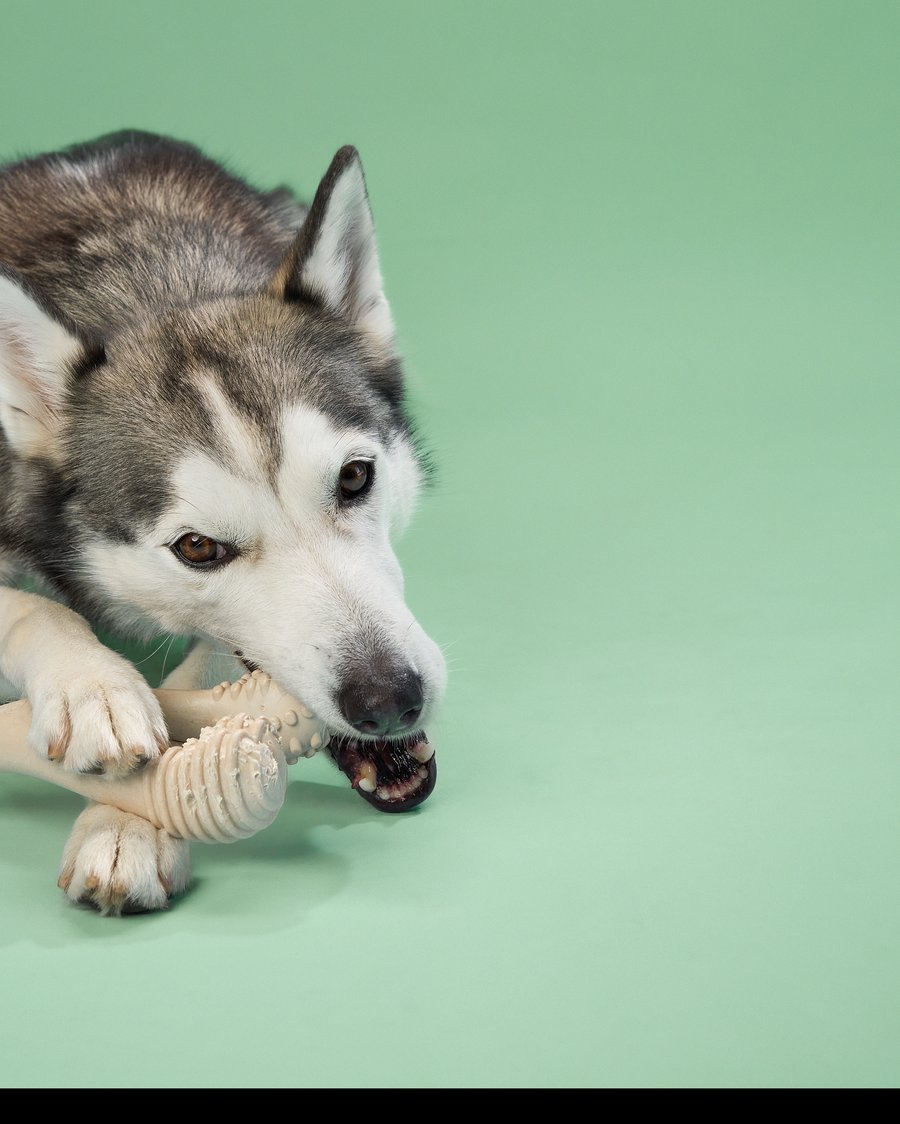
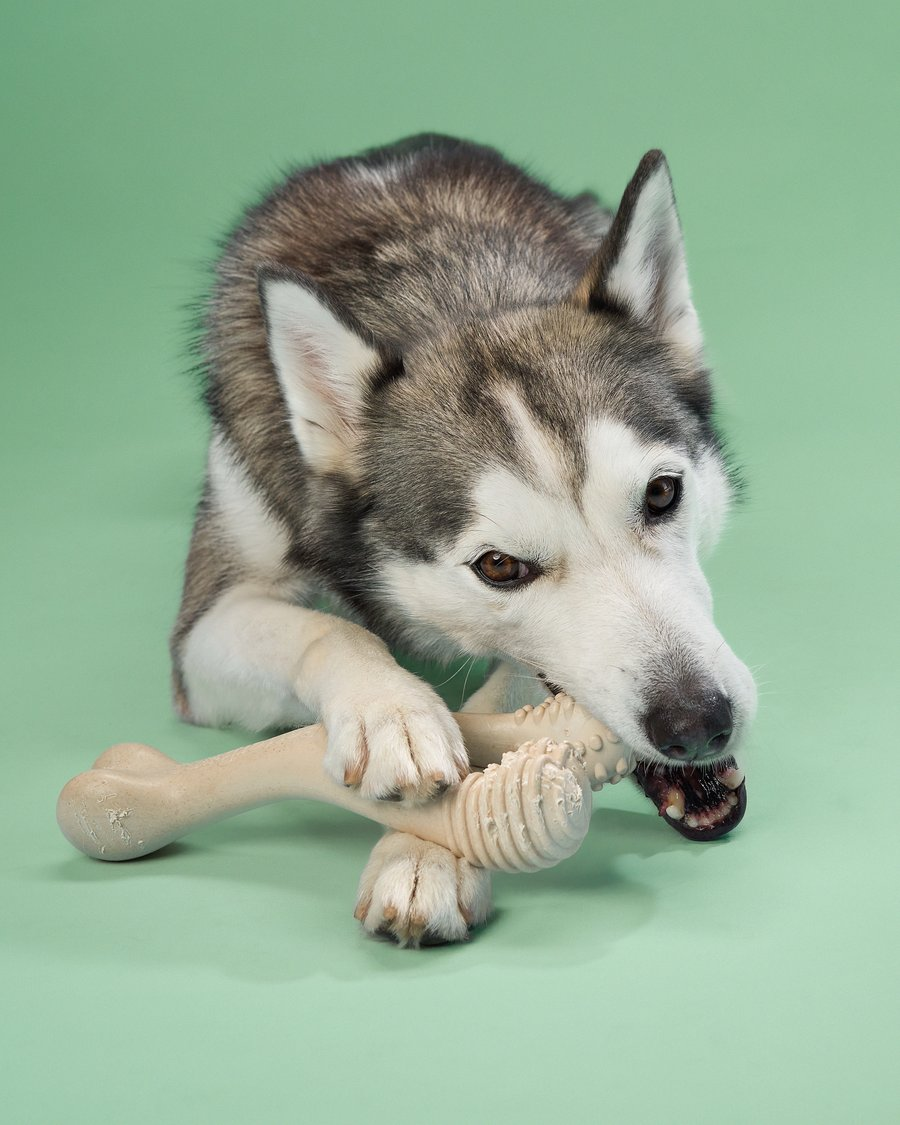
Fix BetterBone medium photo, link durability cards to shop search, add shop section divider

diff --git a/components/ShopClient.jsx b/components/ShopClient.jsx
@@ -1,6 +1,7 @@
 'use client';
 
 import React, { useEffect, useState } from 'react';
+import { useSearchParams } from 'next/navigation';
 import { shopApi } from '../lib/api';
 import { useCart } from '../lib/CartContext';
 import { BRAND_SLUGS, displayBrandName } from '../lib/brandSlugs';
@@ -21,15 +22,30 @@ function sortBrands(brands) {
 // HTML from the server. This component only re-fetches when the customer
 // actually interacts (search, brand filter), same behavior as before, just
 // no longer responsible for the very first render.
-export default function ShopClient({ initialProducts, brands, showHero = true }) {
+//
+// brandId (optional): when set (brand pages only), search/filter stays
+// scoped to this brand even after the customer types — otherwise a search
+// re-fetch drops the brand scope and pulls in matches from every brand.
+// Also reads a `?q=` URL param on mount so the durability cards further up
+// the brand page (see BrandDeepDive) can deep-link straight into a
+// pre-filtered search — e.g. clicking the "Soft" card lands here already
+// searched for "Soft".
+export default function ShopClient({ initialProducts, brands, showHero = true, brandId = null }) {
   const [products, setProducts] = useState(initialProducts);
-  const [brandFilter, setBrandFilter] = useState('');
+  const [brandFilter, setBrandFilter] = useState(brandId || '');
   const [search, setSearch] = useState('');
   const [searchInput, setSearchInput] = useState('');
   const sortedBrands = sortBrands(brands);
   const [loading, setLoading] = useState(false);
   const [firstRun, setFirstRun] = useState(true);
   const { addItem, itemCount, subtotal } = useCart();
+  const searchParams = useSearchParams();
+
+  useEffect(() => {
+    const q = searchParams.get('q');
+    if (q) { setSearchInput(q); setSearch(q); setFirstRun(false); }
+    // eslint-disable-next-line react-hooks/exhaustive-deps
+  }, []);
 
   useEffect(() => {
     if (firstRun) { setFirstRun(false); return; }

diff --git a/components/BrandDeepDive.jsx b/components/BrandDeepDive.jsx
@@ -9,10 +9,17 @@
 // Option 1 from the two combined-layout mockups shown to KT, chosen over
 // a plain stacked/no-overlap version.
 //
+// Each card is a link straight into the shop grid below, pre-searched for
+// that hardness level (e.g. clicking "Soft" scrolls to #brand-products
+// already filtered to "Soft" — see ShopClient's `q` param handling) — the
+// existing hover state on the card doubles as the click affordance, per
+// KT's request to make that hover feel "selectable".
+//
 // Image slots: every section takes either a real `image` path or falls
 // back to a dashed placeholder box showing `imageHint`, so this still
 // degrades gracefully if a future brand's data is filled in without
 // photos yet.
+import Link from 'next/link';
 
 function ImageSlot({ image, alt, hint, className }) {
   if (image) return <img src={image} alt={alt} className={className} />;
@@ -67,7 +74,12 @@ export default function BrandDeepDive({ deepDive, brandDisplayName }) {
             </div>
             <div className="durability-grid">
               {durability.levels.map(lvl => (
-                <div className="durability-card" key={lvl.label}>
+                <Link
+                  href={`?q=${encodeURIComponent(lvl.label)}#brand-products`}
+                  className="durability-card"
+                  key={lvl.label}
+                  aria-label={`Shop BetterBone ${lvl.label} chews`}
+                >
                   <div className="durability-image-wrap">
                     <ImageSlot image={lvl.image} alt={lvl.label} hint={lvl.imageHint} className="durability-image" />
                     <div className="durability-product-badge">
@@ -86,7 +98,7 @@ export default function BrandDeepDive({ deepDive, brandDisplayName }) {
                       </div>
                     )}
                   </div>
-                </div>
+                </Link>
               ))}
             </div>
           </div>

diff --git a/app/globals.css b/app/globals.css
@@ -421,7 +421,7 @@ footer.site-footer { background: var(--navy); color: var(--cream); padding-top: 
 .durability-head p { font-size: 16px; color: var(--dark-gray); line-height: 1.7; }
 .durability-grid { display: grid; grid-template-columns: repeat(3,1fr); gap: 26px; }
 @media (max-width: 760px) { .durability-grid { grid-template-columns: 1fr; } }
-.durability-card { background: var(--cream); border: 2px solid rgba(20,33,61,.08); border-radius: 24px; overflow: hidden; transition: border-color .3s ease, transform .3s ease; }
+.durability-card { display: block; background: var(--cream); border: 2px solid rgba(20,33,61,.08); border-radius: 24px; overflow: hidden; transition: border-color .3s ease, transform .3s ease; text-decoration: none; color: inherit; cursor: pointer; }
 .durability-card:hover { border-color: var(--orange); transform: translateY(-3px); }
 .durability-image-wrap { position: relative; }
 .durability-image { aspect-ratio: 4/5; width: 100%; object-fit: cover; display: block; }
@@ -447,6 +447,8 @@ footer.site-footer { background: var(--navy); color: var(--cream); padding-top: 
 .find-guide-inner { position: relative; z-index: 1; max-width: 620px; margin: 0 auto; }
 .find-guide h2 { font-weight: 900; font-size: clamp(30px,3.8vw,44px); color: var(--cream); letter-spacing: -.6px; margin-bottom: 18px; }
 .find-guide p { font-size: 16.5px; line-height: 1.8; color: rgba(245,242,235,.75); margin-bottom: 34px; }
+
+.brand-shop-section { padding: 90px 0 30px; background: var(--ivory); }
 
 .faq { padding: 100px 0 110px; background: var(--cream); }
 .faq-head { max-width: 600px; margin: 0 auto 50px; text-align: center; }

diff --git a/app/brands/[slug]/page.js b/app/brands/[slug]/page.js
@@ -69,7 +69,7 @@ export default async function BrandPage({ params }) {
         </section>
       )}
 
-      <BrandDeepDive deepDive={content.deepDive} brandDisplayName={displayBrandName(brandName)} />
+      <BrandDeepDive deepDive={content.deepDive} brandDisplayName={displayBrandName(brandName)} brandId={brand.id} />
 
       {content.faqs.length > 0 && (
         <section id="faq" className="faq">
@@ -90,15 +90,17 @@ export default async function BrandPage({ params }) {
         </section>
       )}
 
-      <div className="wrap" id="brand-products" style={{ paddingTop: 90 }}>
-        <div className="gallery-head" style={{ marginBottom: 0 }}>
-          <div>
-            <div className="eyebrow">Shop this brand</div>
-            <h2>{displayBrandName(brandName)} products</h2>
+      <section id="brand-products" className="brand-shop-section">
+        <div className="wrap">
+          <div className="gallery-head" style={{ marginBottom: 0 }}>
+            <div>
+              <div className="eyebrow">Shop this brand</div>
+              <h2>{displayBrandName(brandName)} products</h2>
+            </div>
           </div>
         </div>
-      </div>
-      <ShopClient initialProducts={products} brands={brands} showHero={false} />
+        <ShopClient initialProducts={products} brands={brands} showHero={false} brandId={brand.id} />
+      </section>
 
       <section id="enquiry-cta" className="cta-band">
         <div className="wrap">

diff --git a/README.md b/README.md
@@ -1,35 +1,39 @@
-# Pawvy Website — patch: BetterBone brand page deep-dive (final, with real photos)
+# Pawvy Website — patch: 3 fixes to the BetterBone deep-dive
 
 ## What changed
-Three new sections on the **BetterBone brand page**, between "Why Pawvy carries BetterBone"
-and the FAQ:
 
-1. **The Better Chew** — intro copy + hero photo (the husky)
-2. **Different Durability Levels** — Soft / Medium / Hard, combined into one set of cards
-   per your call: each card is the lifestyle dog photo with the matching packaging shot
-   inset as a small badge in the corner, plus a "bite meter" (3 dots) showing intensity
-   and the full product name below. Replaces the earlier two-separate-grids version.
-3. **Find The Bone** — navy CTA band, "Chew-sing Guide" button now links to `#faq` on
-   the same page. Once you add the actual Chew-sing Guide content to the FAQ section,
-   this can be pointed at that specific FAQ item if you want a tighter anchor — just say
-   the word.
+1. **Medium dog photo swapped** — new centered husky photo in the Medium durability
+   card, replacing the skewed one. Cropped to the same 4:5 ratio as the other two.
 
-All 7 images you sent are in, cropped and compressed:
-- `chew-hero.jpg` — the husky, for The Better Chew
-- `durability-soft.jpg` / `-medium.jpg` / `-hard.jpg` — the three dog lifestyle photos
-- `pack-soft.jpg` / `-medium.jpg` / `-hard.jpg` — the three packaging badge shots
+2. **Durability cards now link into the shop grid below**, using the existing hover
+   state as the click affordance:
+   - Clicking any of the 3 cards (Soft / Medium / Hard) scrolls down to
+     `#brand-products` and pre-searches the shop grid for that hardness level
+   - Search stays scoped to BetterBone only (added a `brandId` prop to `ShopClient` so
+     a search triggered this way — or any search on a brand page — doesn't pull in
+     matches from other brands)
+   - From there the customer can add straight to cart, same as normal browsing
 
-Everything's under `public/brand-features/betterbone/` and referenced directly in
-`lib/brandContent.js` — no more placeholder boxes on this page.
+3. **Section divider between FAQ and "Shop this brand"** — wrapped the shop section in
+   its own `<section>` with an ivory background (same alternating-background pattern
+   used throughout the rest of the page), so it no longer blends into the cream FAQ
+   section above it.
 
 ### Files touched
-- `lib/brandContent.js` — `deepDive` content block, now with real image paths
-- `components/BrandDeepDive.jsx` — combined durability+product card layout
-- `app/brands/[slug]/page.js` — added `id="faq"` for the Chew-sing Guide link
-- `app/globals.css` — updated styles for the combined card (image badge overlap)
-- `public/brand-features/betterbone/*.jpg` — 7 new image files
+- `public/brand-features/betterbone/durability-medium.jpg` — replaced
+- `components/BrandDeepDive.jsx` — durability cards are now `next/link` links
+- `components/ShopClient.jsx` — added `brandId` prop + reads `?q=` on mount for the
+  deep-link from the durability cards
+- `app/brands/[slug]/page.js` — shop section now wrapped in `<section className="brand-shop-section">`, passes `brandId` to both `ShopClient` and `BrandDeepDive`
+- `app/globals.css` — `.brand-shop-section` background, `.durability-card` updated for
+  link/anchor behavior
 
-`npm run build` passes clean (Next.js 16, Turbopack) — all 22 routes generated successfully.
+`npm run build` passes clean (Next.js 16, Turbopack) — all 22 routes generated
+successfully, no Suspense-boundary issues with the new `useSearchParams` usage.
+
+**Note:** the hover→shop-search behavior only works on the live site (it's real
+routing/search, not something a static preview can demonstrate) — worth clicking
+through once this is live to confirm it feels right.
 
 ## How to apply
 ```bash
@@ -37,7 +41,7 @@ git checkout main
 git pull origin main
 # unzip this file, "Copy and Replace" when prompted
 git add -A
-git commit -m "Add BetterBone brand page deep-dive sections with real photos"
+git commit -m "Fix BetterBone medium photo, link durability cards to shop search, add shop section divider"
 git push origin main
 ```
 Railway auto-deploys from `main` on push.
